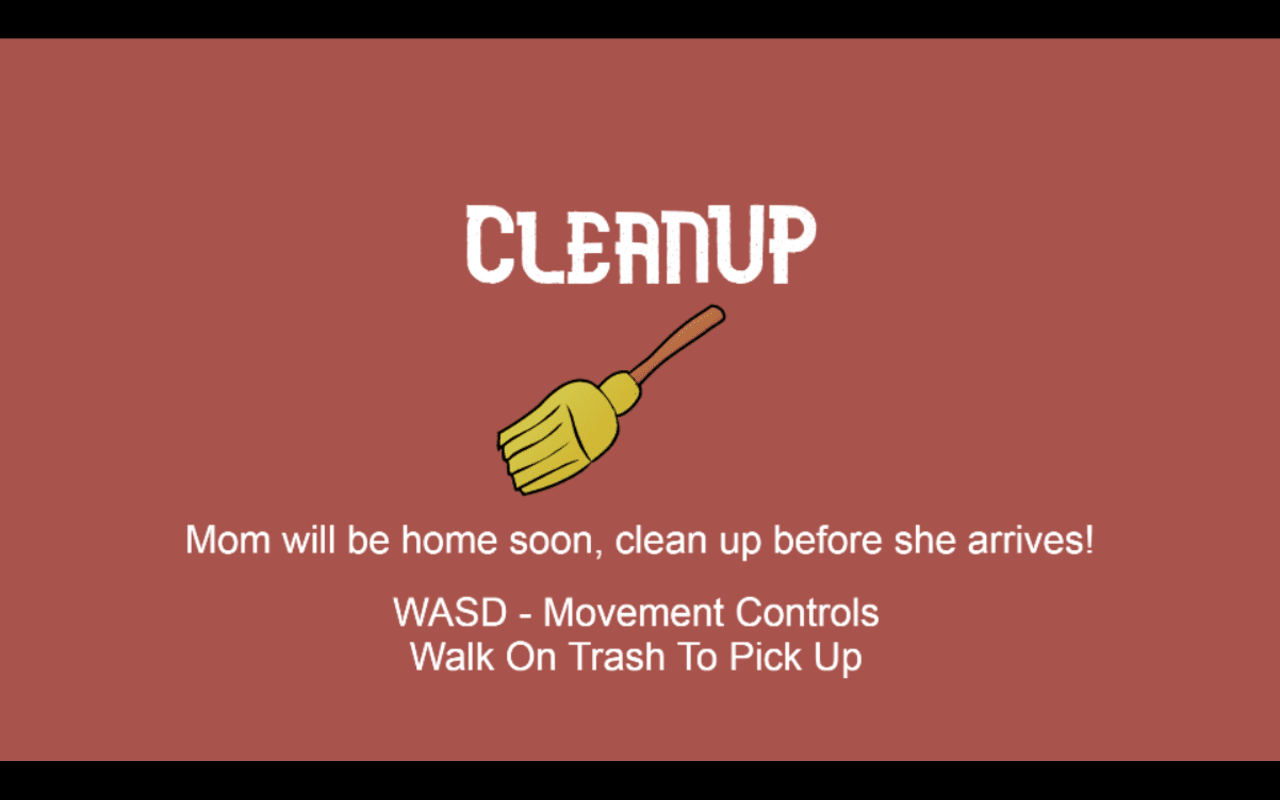
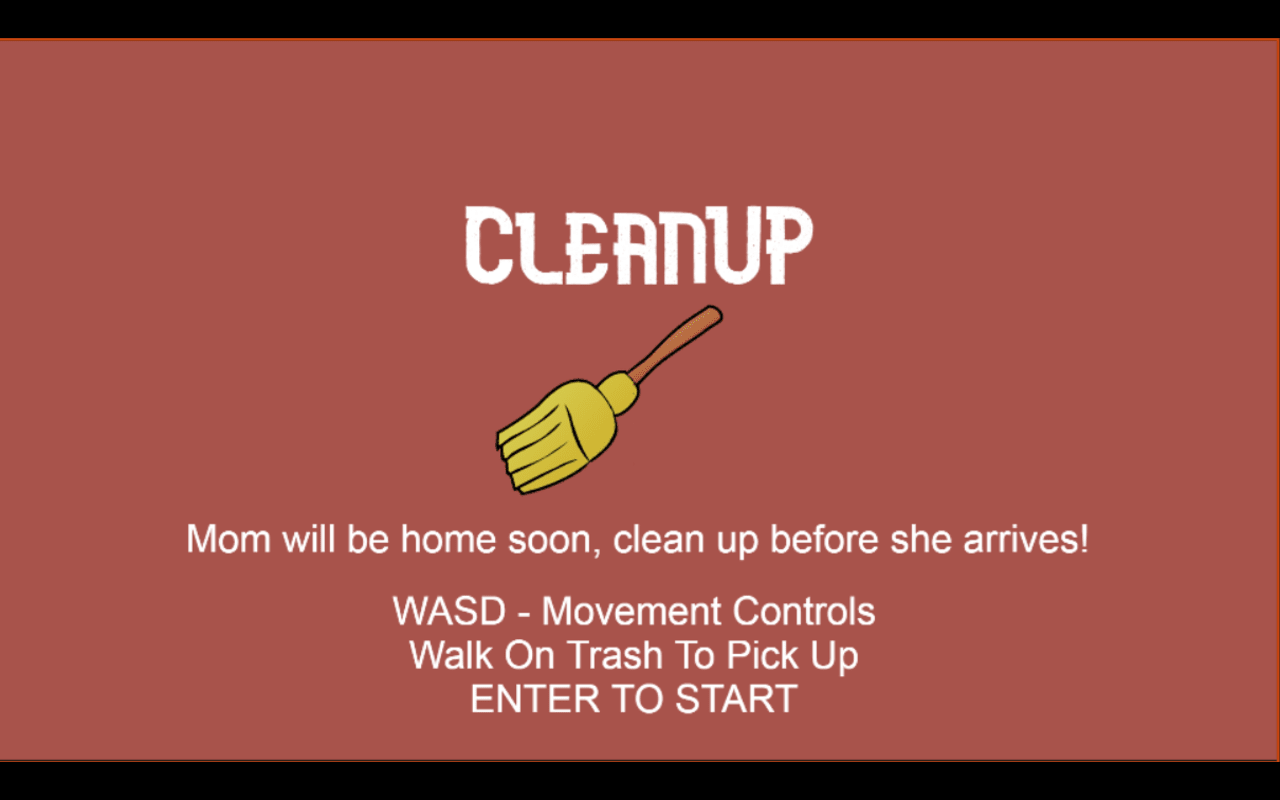
moved Keys to right location, made startmenu

diff --git a/VinterprojektetProg2/Program.cs b/VinterprojektetProg2/Program.cs
@@ -27,7 +27,7 @@ while (Raylib.WindowShouldClose() == false)
     {
         if (Raylib.IsKeyDown(KeyboardKey.KEY_ENTER))
         {
-            currentScene = "bathroomscene"; 
+            currentScene = "StartRoom"; 
             character.ResetCharacterPosition();
 
         }
@@ -64,11 +64,3 @@ while (Raylib.WindowShouldClose() == false)
     }
     Raylib.EndDrawing();
 }
-
-
-
-
-
-
-// för senare
-// bool = kläder etc

diff --git a/VinterprojektetProg2/Livingroom.cs b/VinterprojektetProg2/Livingroom.cs
@@ -10,7 +10,7 @@ namespace Vinterprojektet
         private Livingroom livingroom; 
 
         
-        private int[] keyRectInitialPositions = new int[] { 100, 320, 300, 320, 500, 320 };
+        private int[] keyRectInitialPositions = new int[] { 1150, 100, 250, 700,  };
 
         public Livingroom()
         {

diff --git a/VinterprojektetProg2/Bedroom.cs b/VinterprojektetProg2/Bedroom.cs
@@ -8,7 +8,7 @@ namespace Vinterprojektet
         private Livingroom livingroom; 
 
     
-        private int[] keyRectInitialPositions = new int[] { 100, 320, 300, 320, 500, 320 };
+        private int[] keyRectInitialPositions = new int[] { 100, 100, 900, 20, 1100, 700 };
 
         public Bedroom()
         {

diff --git a/VinterprojektetProg2/Bathroom.cs b/VinterprojektetProg2/Bathroom.cs
@@ -8,7 +8,7 @@ namespace Vinterprojektet
         private Livingroom livingroom; 
 
         
-        private int[] keyRectInitialPositions = new int[] { 100, 320, 300, 320, 500, 320 };
+        private int[] keyRectInitialPositions = new int[] { 250, 90,  };
 
         public Bathroom()
         {

diff --git a/VinterprojektetProg2/Pickup.cs b/VinterprojektetProg2/Pickup.cs
@@ -31,7 +31,7 @@ namespace Vinterprojektet
 
         public bool AllaCollected(Character character)
         {
-            return character.collectedKeys >= 9;
+            return character.collectedKeys >= 6;
         }
 
         public void DrawKeyRectangles(Texture2D keySprite)
